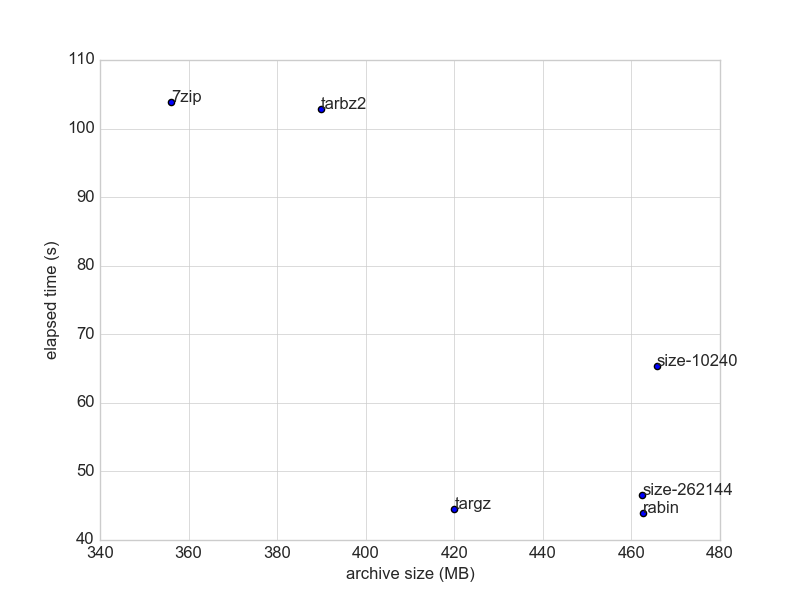
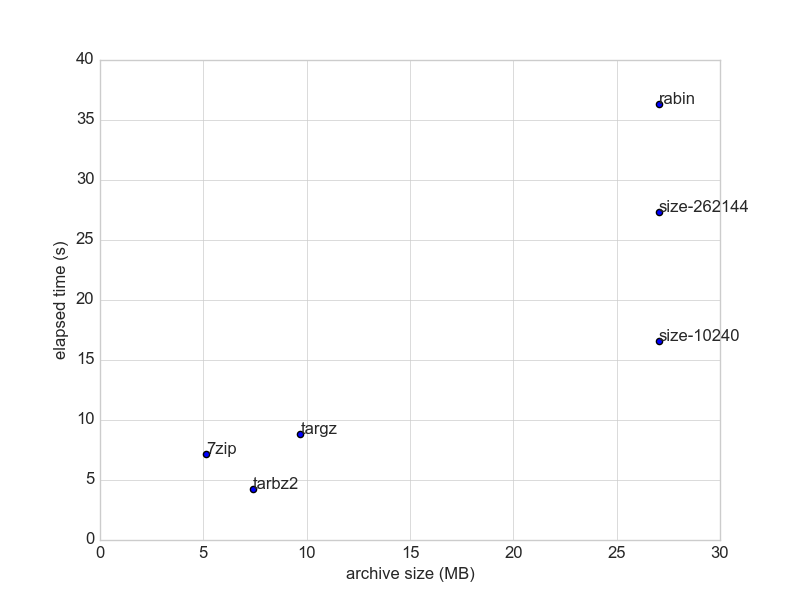
Add chunking graph

diff --git a/README.md b/README.md
@@ -21,6 +21,13 @@ dependencies: go-ipfs, curl, rrdtool, jq, python3, matplotlib, numpy
 
 ![](bitswap/ipfs.png)
 
+#chunking
+
+- Comparison of chunking scheme (default is size-262144)  
+  data: president's daily brief
+
+![](chunk/outdata_pdb.png)
+
 #gc
 
 - https://github.com/ipfs/go-ipfs/issues/3462 (@kevina)
